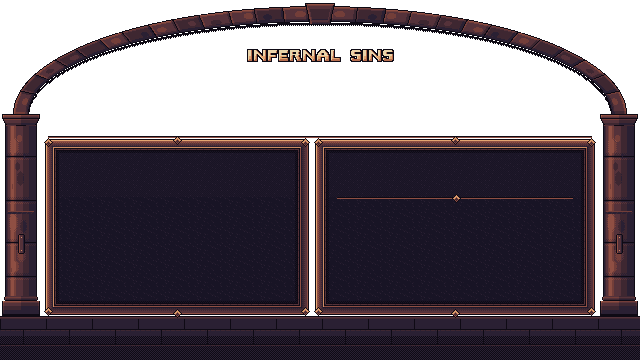
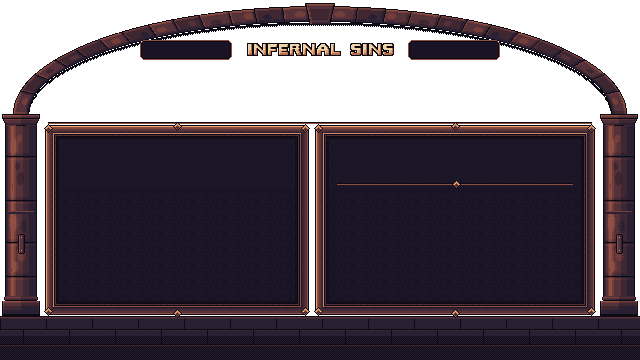
Menu-theme Sins screen: Souls/Sigils in counter plates beside the title, OWNED on the tabs row, slots/tabs/panels moved up and taller panels

diff --git a/Assets/Hellord/Scripts/Runtime/HellordMenuTheme.cs b/Assets/Hellord/Scripts/Runtime/HellordMenuTheme.cs
@@ -172,7 +172,7 @@ namespace Hellord
                 MtFire(t);
             }
             // ---- three sin slots (niches 28x32 at x 256/306/356, y 74)
-            int[] nxs = { 256, 306, 356 }; const int NY = 74; string hdr = null; string hdrCol = "DIM";
+            int[] nxs = { 256, 306, 356 }; const int NY = 60; /* t1356: was 74 */ string hdr = null; string hdrCol = "DIM";
             for (int i = 0; i < 3; i++)
             {
                 int x = nxs[i]; bool unl = i < _sinSlots737 && i < SlotsMax737; string id = "slot" + i;
@@ -186,7 +186,7 @@ namespace Hellord
                 {
                     MtSpr("niche_locked", x, NY); bool can = i < SlotsMax737; bool over = can && MtOver(id, x, NY, 28, 32);
                     int sc = Arr737(ST737.sinSlotSoulCost737, i, 100), gc = Arr737(ST737.sinSlotSigilCost737, i, 1); bool next = i == _sinSlots737, afford = _souls51 >= sc && _sigils51 >= gc;
-                    if (can && i == 2) { MtSpr("icon_soul", 394, 87); MtTx(sc.ToString(System.Globalization.CultureInfo.InvariantCulture), 404, 86, afford && next ? "YELLOW" : "DIM"); }
+                    if (can && i == 2) { MtSpr("icon_soul", 394, NY + 13); MtTx(sc.ToString(System.Globalization.CultureInfo.InvariantCulture), 404, NY + 12, afford && next ? "YELLOW" : "DIM"); }
                     if (over) { MtBrackets(x, NY, 28, 32); if (_mtRep) MenuThemeLastHover = id; hdr = next ? "UNLOCK SLOT " + (i + 1) + ": " + sc + " SOULS + " + gc + " SIGIL" + (gc == 1 ? "" : "S") : "UNLOCK SLOT " + (_sinSlots737 + 1) + " FIRST"; hdrCol = next && afford ? "AMBER" : "HOT"; }
                     if (can && MtClick(id, x, NY, 28, 32))
                     {
@@ -197,13 +197,14 @@ namespace Hellord
                 }
             }
             // ---- currency + slot/owned headers
-            MtSpr("icon_soul", 52, 87); MtTx("SOULS " + _souls51, 64, 86, "YELLOW");
-            { string sg = "SIGILS " + _sigils51; int iw = MenuThemeData.Atlas["icon_sigil"][2]; int ix = 588 - iw; MtTx(sg, ix - 4 - MtW(sg, false), 86, "PINK"); MtSpr("icon_sigil", ix, 87); }
+            // t1356: SOULS / SIGILS in framed counter plates either side of the title (plates are in mt_scene at x 140 and 408, y 40, 92x20)
+            { string so = "SOULS " + _souls51; int iw0 = MenuThemeData.Atlas["icon_soul"][2], tw0 = iw0 + 4 + MtW(so, false), x0 = 140 + (92 - tw0) / 2; MtSpr("icon_soul", x0, 46); MtTx(so, x0 + iw0 + 4, 47, "YELLOW"); }
+            { string sg = "SIGILS " + _sigils51; int iw = MenuThemeData.Atlas["icon_sigil"][2], tw1 = MtW(sg, false) + 4 + iw, x1 = 408 + (92 - tw1) / 2; MtTx(sg, x1, 47, "PINK"); MtSpr("icon_sigil", x1 + MtW(sg, false) + 4, 46); }
             if (_mtMsg != null && MtClock() < _mtMsgUntil) { hdr = _mtMsg; hdrCol = _mtMsgCol; }
-            MtTxC(hdr ?? "SLOTS " + _sinSlots737 + "/" + SlotsMax737, 320, 110, hdr != null ? hdrCol : "DIM");
-            { string ow = "OWNED " + SinOwnedCount737 + "/" + HSins.Count; MtTx(ow, 588 - MtW(ow, false), 122, "DIM"); }
+            MtTxC(hdr ?? "SLOTS " + _sinSlots737 + "/" + SlotsMax737, 320, NY + 36, hdr != null ? hdrCol : "DIM");
+            { string ow = "OWNED " + SinOwnedCount737 + "/" + HSins.Count; MtTx(ow, 584 - MtW(ow, false), 108, "DIM"); }   // t1356: on the tabs row, right-aligned inside the right panel (was 588,122)
             // ---- tabs
-            string[] fl = { "ALL", "MORTAL", "DEMONIC", "HEAVEN-DEFYING" }; int tx = 52, TY = 121;
+            string[] fl = { "ALL", "MORTAL", "DEMONIC", "HEAVEN-DEFYING" }; int tx = 52, TY = 107;   // t1356: was 121
             for (int i = 0; i < 4; i++)
             {
                 int w = MtW(fl[i], true); bool sel = _sinFilter737 == i; string id = "tab" + i; bool over = !sel && MtOver(id, tx - 6, TY - 1, w + 12, 17);
@@ -222,7 +223,7 @@ namespace Hellord
             int pulse = Mathf.Clamp((int)((0.5f - 0.5f * Mathf.Cos(Mathf.Repeat(t / 2.4f, 1f) * 6.2831853f)) * 2.9999f), 0, 2); int hovShown = -1;
             for (int k = 0; k < per; k++)
             {
-                int x = 58 + (k % 8) * 30, y = 153 + (k / 8) * 30, li = _sinPage737 * per + k; var d = li < list.Count ? list[li] : null;
+                int x = 58 + (k % 8) * 30, y = 145 + (k / 8) * 30, li = _sinPage737 * per + k; var d = li < list.Count ? list[li] : null;
                 if (d == null) { MtSpr("cell_empty", x, y); continue; }
                 bool own = _sinOwned737[d.id], sel = _sinSel737 == d.id, eq = SinEquipped737(d.id), over = MtOver("cell" + k, x, y, 28, 28);
                 MtSpr(sel ? "cell_sel" + pulse : !own ? "cell_locked" : eq ? "cell_equipped" : "cell_normal", x, y);
@@ -261,7 +262,7 @@ namespace Hellord
         void MtDetail(int hovShown)
         {
             int sid = hovShown >= 0 ? hovShown : _sinSel737; if (sid != _mtShown) { _mtShown = sid; _mtPage = 0; }
-            const int IX = 337, IY = 161, DIVY = 197, EY = 269; int pulse = Mathf.Clamp((int)((0.5f - 0.5f * Mathf.Cos(Mathf.Repeat(MtClock() / 2.4f, 1f) * 6.2831853f)) * 2.9999f), 0, 2);
+            const int IX = 337, IY = 147, DIVY = 183, EY = 269; /* t1356: IY/DIVY were 161/197 */ int pulse = Mathf.Clamp((int)((0.5f - 0.5f * Mathf.Cos(Mathf.Repeat(MtClock() / 2.4f, 1f) * 6.2831853f)) * 2.9999f), 0, 2);
             MtSpr("cell_sel" + pulse, IX, IY);
             string act = "SELECT SIN", status = null, statusCol = "BONE"; bool actOn = false; int actKind = 0, free = -1; _mtPages = 1;
             if (sid < 0) { MtDisp("SELECT A SIN", 373, IY, MT_NAME_DIM, "dim"); MtTx("FROM THE GRID", 373, IY + 13, "DIM"); }
@@ -274,7 +275,7 @@ namespace Hellord
                 foreach (var ln in name) { if (small) { MtTx(ln, 373, ny + 1, own ? (d.tier == SinTier.HeavenDefying ? "YELLOW" : d.tier == SinTier.Demonic ? "AMBER" : "BONE") : "DIM", true); ny += 9; } else { MtDisp(ln, 373, ny, ramp, own ? "t" + MtTierIdx(d) : "dim"); ny += 12; } }
                 MtTx(sub, 373, ny + 1, "DIM");
                 int pitch = rows.Count <= 4 ? 11 : 9, cap = rows.Count <= 4 ? 4 : 5; int capP = rows.Count > cap ? cap - 1 : cap; _mtPages = Mathf.Max(1, (rows.Count + capP - 1) / capP); _mtPage = Mathf.Clamp(_mtPage, 0, _mtPages - 1);
-                for (int i = 0; i < capP; i++) { int ri = _mtPage * capP + i; if (ri >= rows.Count) break; MtTx(rows[ri][0], IX, 207 + i * pitch, rows[ri][1]); }
+                for (int i = 0; i < capP; i++) { int ri = _mtPage * capP + i; if (ri >= rows.Count) break; MtTx(rows[ri][0], IX, 194 + i * pitch, rows[ri][1]); }
                 if (_mtPages > 1)
                 {
                     string pg = (_mtPage + 1) + "/" + _mtPages; MtTx(pg, 555 - MtW(pg, false) / 2, 246, "BONE");

diff --git a/tools/t1356/mt_scene1356.py b/tools/t1356/mt_scene1356.py
@@ -1,0 +1,43 @@
+"""t1356: re-lays-out the static layer of the menu-theme Sins screen (counter plates beside the title, tabs/slots/panels moved up, taller panels).
+Uses the t1287 engine unchanged (read-only import) and writes ONLY Assets/Hellord/Resources/HellordArt/MenuTheme/mt_scene.png."""
+import sys; sys.dont_write_bytecode = True
+W0 = '/workspace/Hellord/Art/previews/t1287_redraw/work'
+sys.path.insert(0, W0); sys.path.insert(0, '/workspace/Hellord/tools/t1300')
+import numpy as np
+from PIL import Image
+import eng2 as E
+import backdrop as B, scene5 as SCN, d2_ui as S, screen5 as SC
+import mt_static as MS
+OUT = '/workspace/Hellord/Assets/Hellord/Resources/HellordArt/MenuTheme/mt_scene.png'
+TITLE_Y = 44                      # was 50
+PLATE_W, PLATE_H = 92, 20; PLATE_L, PLATE_R = 140, 640 - 140 - 92; PLATE_Y = TITLE_Y - 4
+TY = 107                          # tabs row (was 121)
+RAIL_Y = TY + 15
+PY = RAIL_Y + 6; PB = 312         # panel top (was 142) / bottom (unchanged)
+GH = PB - PY
+GR = dict(x=SC.GR['x'], y=PY, w=SC.GR['w'], h=GH); DE = dict(x=SC.DE['x'], y=PY, w=SC.DE['w'], h=GH)
+def static_screen(key):
+    cv = E.Cv('INK'); cv.a[:] = key
+    B.ST.pop(id(cv), None); B.stone(cv); SCN.reset(cv); SCN.floor(cv); SCN.arch(cv); SCN.pillars(cv)
+    t = 'INFERNAL SINS'; w = S.TITLE.width(t)
+    S.TITLE.draw(cv, 320 - w // 2, TITLE_Y, t, 'BONE', leg={'+': 'BONE', '=': 'TERRA'}, role='title', outline='DEEP', rowcols=['BONE'] * 6 + ['CLAY'] * 3 + ['TERRA'] * 2)
+    S.counter(cv, PLATE_L, PLATE_Y, PLATE_W, PLATE_H, ''); S.counter(cv, PLATE_R, PLATE_Y, PLATE_W, PLATE_H, '')
+    SCN._track(cv)
+    for cx in (21, 619):
+        MS.strap(cv, cx, 214); SCN.rim(cv, cx, 214)
+    SCN._untrack(cv)
+    S.rail(cv, GR['x'], RAIL_Y, DE['x'] + DE['w'] - GR['x'])
+    gi = S.panel(cv, **GR); di = S.panel(cv, **DE)
+    ix = di[0] + 10; iy = di[1] + 10; sy = iy + SC.CELL + 8
+    S.divider(cv, ix, sy, di[2] - 20)
+    return cv, dict(gi=gi, di=di, divider=(ix, sy, di[2] - 20))
+def build():
+    a, info = static_screen(MS.KEYA); b, _ = static_screen(MS.KEYB)
+    diff = (a.a != b.a).any(axis=2); rgba = np.zeros((360, 640, 4), np.uint8); rgba[..., :3] = a.a; rgba[..., 3] = np.where(diff, 0, 255); rgba[diff, :3] = 0
+    return rgba, info
+if __name__ == '__main__':
+    rgba, info = build(); print(info, 'PY', PY, 'GH', GH)
+    Image.fromarray(rgba).save(OUT)
[1 lines of base64/hex data omitted]
+    Image.fromarray(rgba).save(R + 'mt_scene.png')
+    bg = Image.open(R + 'mt_bg.png').convert('RGBA'); bg.alpha_composite(Image.fromarray(rgba)); bg.resize((1280, 720), 0).save('/tmp/scene_new.png')
